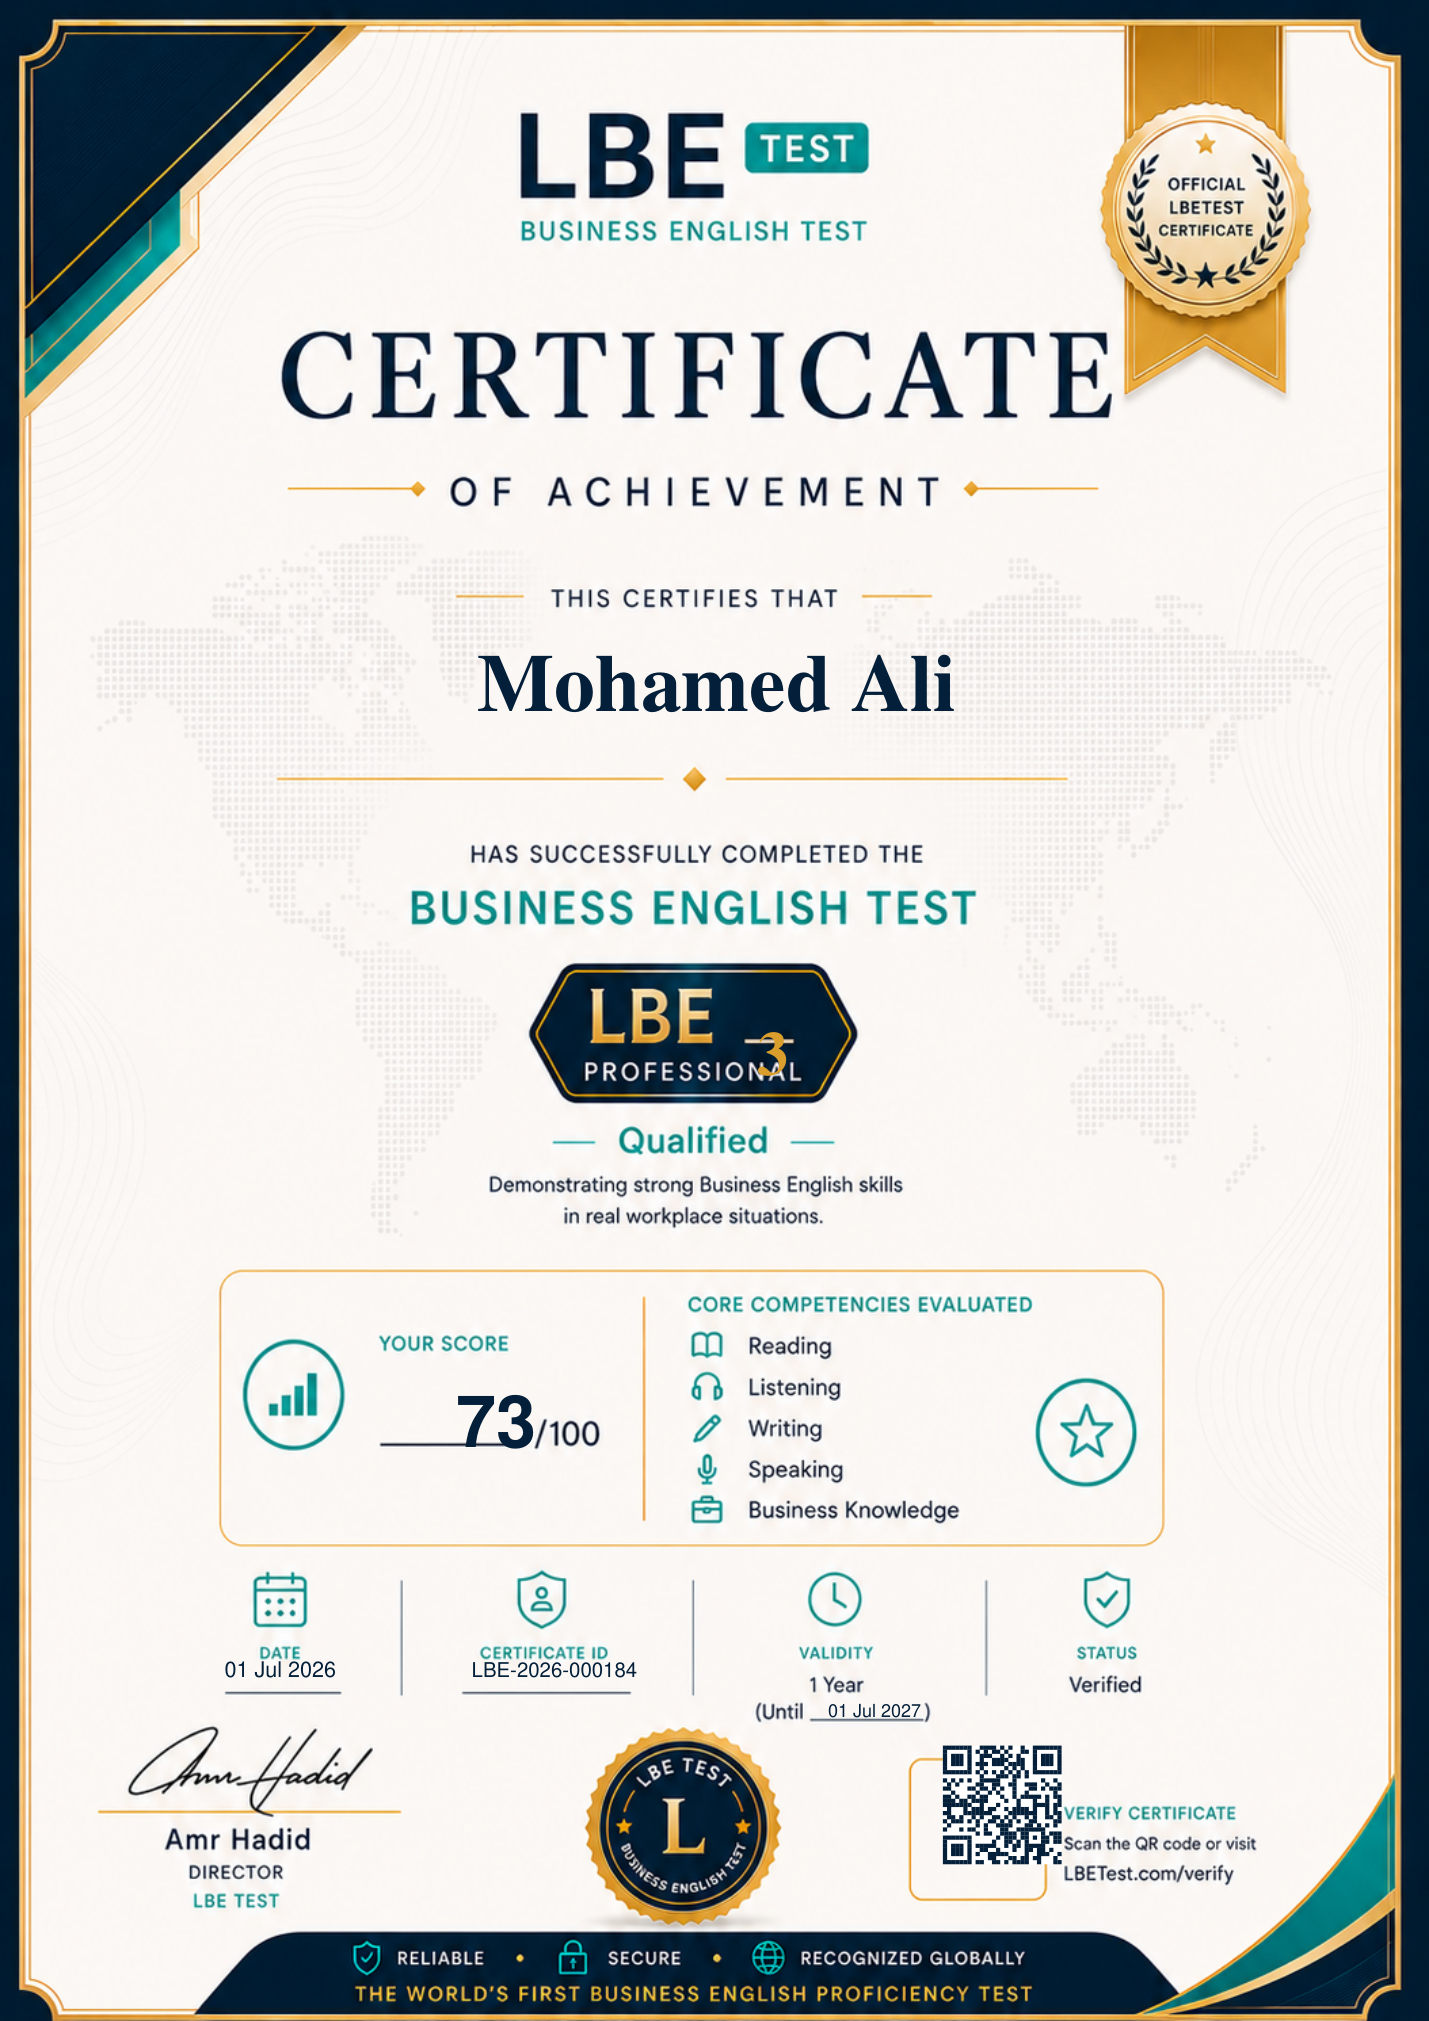
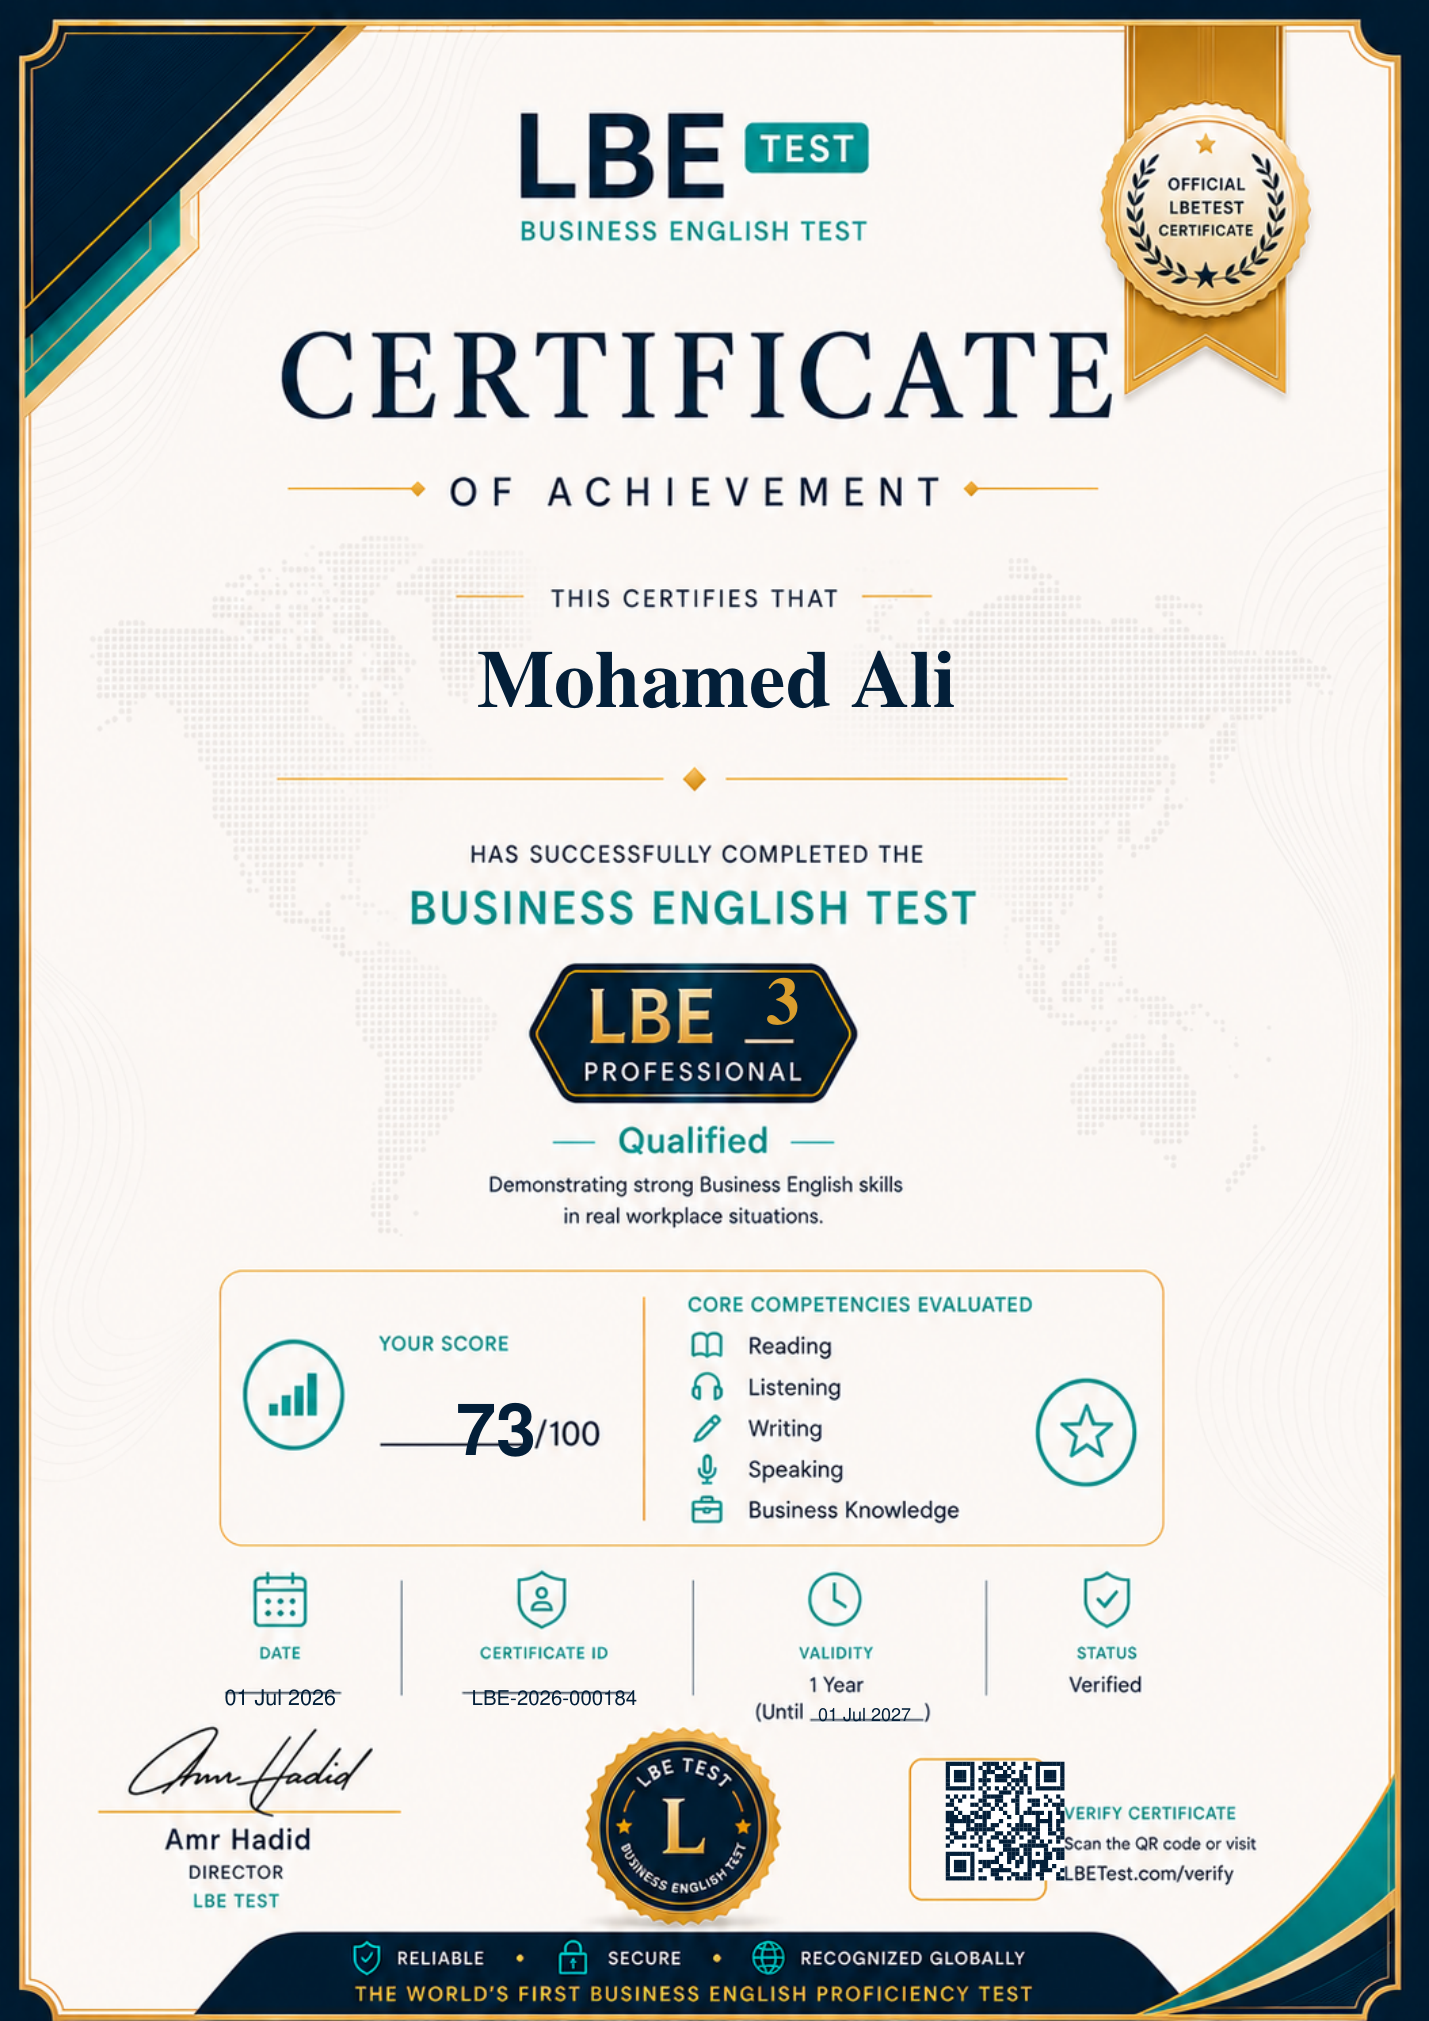
Certificate: systematically recalibrate all overlay field positions
Add a debug/calibration mode to generateCertificatePdf (opts.debug draws a
labelled fractional grid + per-field markers; opts.gridOnly draws it over the
blank template). Used it to measure each dynamic field's true slot against the
template and correct all coordinates in one pass — name, level number, score,
date, certificate id, validity date, and QR now sit precisely on their slots.
Calibration code is guarded by opts and never runs in production output.

Regenerate the homepage sample (public/Certificate.png) from the corrected
generator.

Claude-Session: https://claude.ai/code/session_01MCen7BZGEZFym7TARqVkW9

diff --git a/src/lib/certificates/pdf.ts b/src/lib/certificates/pdf.ts
@@ -37,13 +37,13 @@ export interface CertificatePdfInput {
  * of the template (so they map 1:1 to the artwork). Tune here if the art moves.
  */
 const POS = {
-  name: { cx: 0.5, top: 0.352, size: 34 },
-  levelNum: { cx: 0.541, top: 0.532, size: 26 },
-  score: { rightX: 0.375, top: 0.716, size: 30 },
-  date: { cx: 0.196, top: 0.83, size: 9 },
-  certId: { cx: 0.388, top: 0.83, size: 8.5 },
-  validityUntil: { cx: 0.612, top: 0.85, size: 7.5 },
-  qr: { left: 0.66, top: 0.864, size: 0.083 }, // size = fraction of page width
+  name: { cx: 0.5, top: 0.35, size: 34 },
+  levelNum: { cx: 0.548, top: 0.507, size: 28 },
+  score: { rightX: 0.375, top: 0.72, size: 30 },
+  date: { cx: 0.196, top: 0.844, size: 9 },
+  certId: { cx: 0.388, top: 0.844, size: 8.5 },
+  validityUntil: { cx: 0.605, top: 0.852, size: 7.5 },
+  qr: { left: 0.662, top: 0.872, size: 0.083 }, // size = fraction of page width
 };
 
 function shortDate(d: Date) {
@@ -83,9 +83,52 @@ function drawQr(page: PDFPage, url: string, leftFrac: number, topFrac: number, s
   }
 }
 
+/**
+ * Calibration overlay: a labelled fractional grid + a baseline/center marker for
+ * every dynamic field, drawn on top of the artwork. Lets us read each field's
+ * true slot position against the template in one render instead of guessing.
+ * Only used by the debug tooling — never in production output.
+ */
+function drawCalibration(page: PDFPage, font: PDFFont) {
+  const steps = 40; // every 0.025
+  for (let i = 0; i <= steps; i++) {
+    const f = i / steps;
+    const major = i % 4 === 0; // every 0.10
+    const x = f * W;
+    const yTop = H * (1 - f);
+    const t = major ? 0.6 : 0.25;
+    // Grid lines drawn as thin filled rects (strokes don't rasterize reliably).
+    page.drawRectangle({ x, y: 0, width: t, height: H, color: rgb(0, 0, 0.85), opacity: major ? 0.5 : 0.22 });
+    page.drawRectangle({ x: 0, y: yTop, width: W, height: t, color: rgb(0.85, 0, 0), opacity: major ? 0.5 : 0.22 });
+    if (major) {
+      page.drawText(f.toFixed(2), { x: x + 0.5, y: H - 8, size: 5.5, font, color: rgb(0, 0, 0.85) });
+      page.drawText(f.toFixed(2), { x: 1, y: yTop - 1.5, size: 5.5, font, color: rgb(0.85, 0, 0) });
+    }
+  }
+  // Mark each field: a magenta baseline strip + its label.
+  const mark = (label: string, cx: number, top: number, halfW = 0.06) => {
+    const y = H * (1 - top);
+    page.drawRectangle({ x: (cx - halfW) * W, y, width: 2 * halfW * W, height: 0.8, color: rgb(1, 0, 1), opacity: 0.9 });
+    page.drawText(`${label} ${top.toFixed(3)}`, { x: (cx - halfW) * W, y: y + 2, size: 5, font, color: rgb(0.6, 0, 0.6) });
+  };
+  mark("name", POS.name.cx, POS.name.top);
+  mark("level", POS.levelNum.cx, POS.levelNum.top, 0.03);
+  mark("score", POS.score.rightX - 0.03, POS.score.top, 0.03);
+  mark("date", POS.date.cx, POS.date.top);
+  mark("certId", POS.certId.cx, POS.certId.top);
+  mark("until", POS.validityUntil.cx, POS.validityUntil.top);
+  // QR box outline (as 4 thin filled rects).
+  const qx = POS.qr.left * W, qs = POS.qr.size * W, qyTop = H * (1 - POS.qr.top), qy = qyTop - qs;
+  for (const r of [
+    { x: qx, y: qy, width: qs, height: 1 }, { x: qx, y: qyTop, width: qs, height: 1 },
+    { x: qx, y: qy, width: 1, height: qs }, { x: qx + qs, y: qy, width: 1, height: qs },
+  ]) page.drawRectangle({ ...r, color: rgb(0, 0.6, 0), opacity: 0.9 });
+}
+
 export async function generateCertificatePdf(
   input: CertificatePdfInput,
   templatePng: Uint8Array,
+  opts: { debug?: boolean; gridOnly?: boolean } = {},
 ): Promise<Uint8Array> {
   const pdf = await PDFDocument.create();
   pdf.setTitle(`LBE Certificate — ${input.certCode}`);
@@ -102,6 +145,10 @@ export async function generateCertificatePdf(
   page.drawImage(bg, { x: 0, y: 0, width: W, height: H });
 
   // --- Overlays (dynamic only) --------------------------------------------
+  if (opts.gridOnly) {
+    drawCalibration(page, sans);
+    return pdf.save();
+  }
   const name = input.candidateName.trim() || "Candidate";
   // Shrink the name to fit if it's long.
   let nameSize = POS.name.size;
@@ -127,6 +174,8 @@ export async function generateCertificatePdf(
   centerAt(page, sans, shortDate(input.expiresAt), POS.validityUntil.cx, POS.validityUntil.top, POS.validityUntil.size, INK);
 
   drawQr(page, input.verifyUrl, POS.qr.left, POS.qr.top, POS.qr.size);
+
+  if (opts.debug) drawCalibration(page, sans);
 
   return pdf.save();
 }
